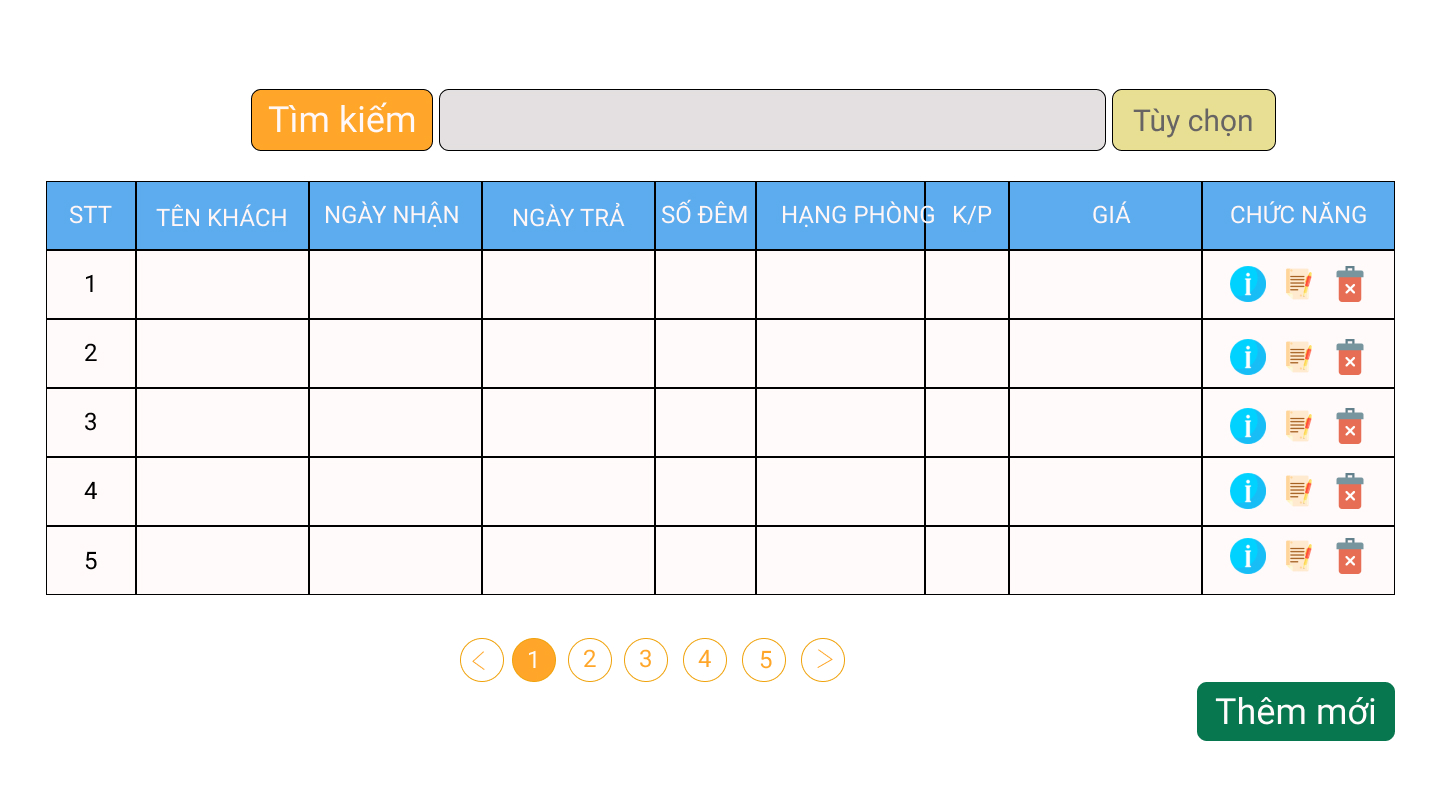
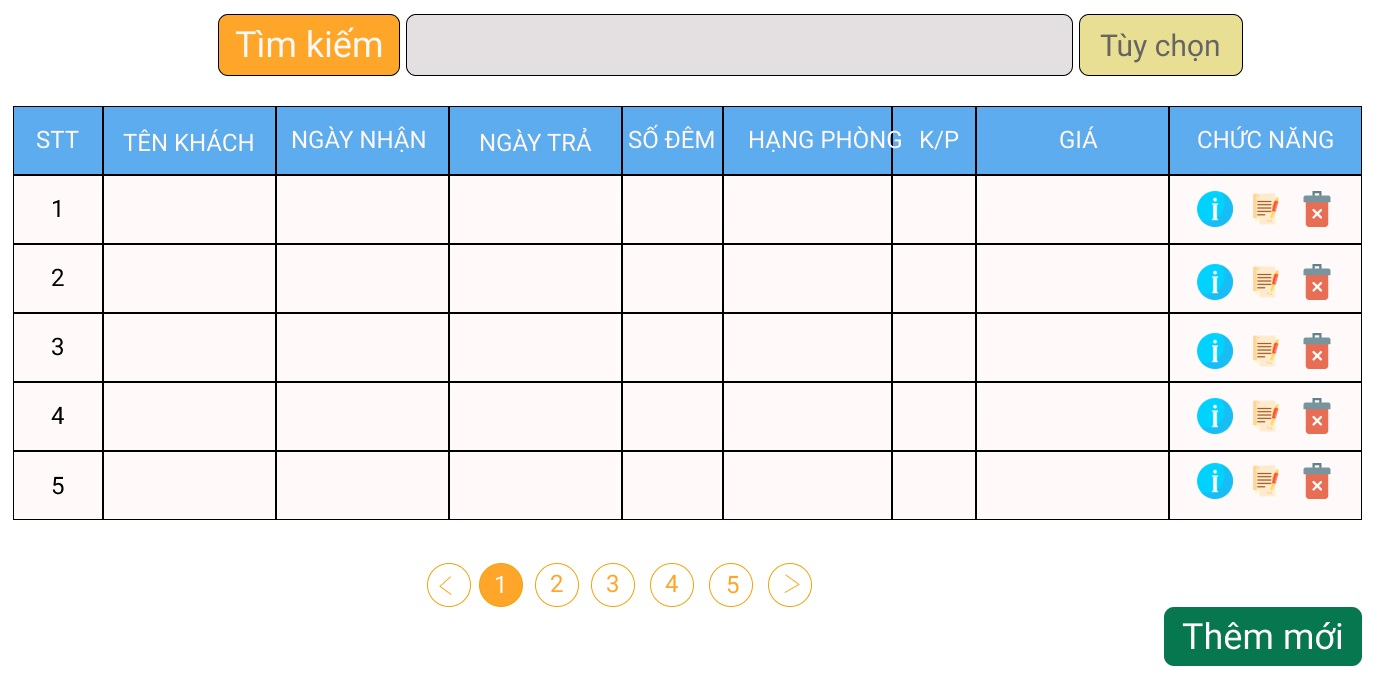
up date

diff --git a/baitap.html b/baitap.html
@@ -87,7 +87,7 @@
           <h1 style="color: aliceblue">Bài Tập</h1>
           <p class="breadcrumbs"><span class="mr-2"><a href="index.html">Home <i
                   class="ion-ios-arrow-forward"></i></a></span> <span>Labs <i
-                class="ion-ios-arrow-forward"></i></span><span ><a href="baitap.html"> Lab 1 <i
+                class="ion-ios-arrow-forward"></i></span><span><a href="baitap.html"> Lab 1 <i
                   class="ion-ios-arrow-forward"></i></a></span></p>
         </div>
       </div>
@@ -99,8 +99,8 @@
   <!--nơi viết nội dùng lab bài tập-->
   <section>
     <div class="container mt-3">
-      
-     
+
+
       <!-- Lab tabs -->
       <ul class="nav nav-tabs">
         <li class="nav-item">
@@ -110,7 +110,7 @@
           <a href="lab2.html" class="nav-link">Lab 2</a>
         </li>
         <li class="nav-item">
-          <a class="nav-link"  href="lab3.html" >Lab 3</a> 
+          <a class="nav-link" href="lab3.html">Lab 3</a>
         </li>
         <li class="nav-item">
           <a class="nav-link" data-toggle="tab" href="#lab4">Lab 4</a>
@@ -196,82 +196,119 @@
               <div class="panel panel-default">
                 <div class="panel-heading">
                   <h4 class="panel-title">
-                    <a data-toggle="collapse" data-parent="#accordion" href="#collapse0">Ảnh thiết kế trên giấy </a>
+                    <a data-toggle="collapse" data-parent="#accordion" href="#collapse0">Chức năng quản lí đặt phòng
+                    </a>
                   </h4>
                 </div>
                 <div>
-                  <P>
-                    <h3>Chức năng quản lí đặt phòng</h3>
-                  </P><br>
-                  <img title="quản lí phòng " src="./images/2.jpg"><br>
-                  <button style="float: left; margin-bottom: 20px; border-radius: 10px; background-color: teal">
 
-                    <a href="./images/2.jpg" download
-                      style="text-align:center; font-size: 24px; color: rgb(243, 240, 240)">
-                      <img src="./images/downl.png" width="24px" alt="Thêm dữ liệu" target="_blank"> Tải ảnh</a>
-                  </button><br><br>
+                  <div style="flex: 1;display: -webkit-flex; display: flex;">
+                    <div style="flex:3;"><img title="quản lí phòng " src="./images/2.jpg" width="700px" height="400"></div>
+
+                    <div style="flex: 1;margin-top: 200px;text-align: center;">
+                      <button
+                        style="float: left; margin-bottom: 20px; border-radius: 10px; background-color: #FFA629">
+                        <a href="./images/2.jpg" download
+                          style="text-align:center; font-size: 20px; color: rgb(243, 240, 240)">
+                          <img src="./images/downl.png" width="24px" alt="Thêm dữ liệu" target="_blank"> Tải ảnh</a>
+                      </button></div>
+
+                  </div>
+
                 </div>
-                <div>
-                  <p>
-                    <h3>Chức năng đặt phòng </h3>
-                  </p>
-                  <img tile="chức năng đặt phòng" src="./images/1.jpg"><br>
-                  <button style="float: left; margin-bottom: 20px; border-radius: 10px; background-color: teal">
-
-                    <a href="./images/1.jpg" download
-                      style="text-align:center; font-size: 24px; color: rgb(243, 240, 240)">
-                      <img src="./images/downl.png" width="24px" alt="Thêm dữ liệu" target="_blank"> Tải ảnh</a>
-                  </button><br><br>
+              </div>
+              <!-- pasdfdsf -->
+              <div class="panel panel-default">
+                <div class="panel-heading">
+                  <h4 class="panel-title">
+                    <a data-toggle="collapse" data-parent="#accordion" href="#collapse0">Chức năng đặt phòng
+                    </a>
+                  </h4>
                 </div>
+               
 
+                  <div style="flex: 1;display: -webkit-flex; display: flex;">
+                    <div style="flex:3;"><img tile="chức năng đặt phòng" src="./images/1.jpg" width="700px"height="400" ></div>
 
+                    <div style="flex: 1;margin-top: 200px;text-align: center;">
+                      <button style="float: left; margin-bottom: 20px; border-radius: 10px; background-color:  #FFA629">
+
+                        <a href="./images/1.jpg" download
+                          style="text-align:center; font-size: 20px; color: rgb(243, 240, 240)">
+                          <img src="./images/downl.png" width="24px" alt="Thêm dữ liệu" target="_blank"> Tải ảnh</a>
+                      </button></div>
+
+                  </div>
+              </div>
+              <!-- asdfsdfaf -->
+              <div class="panel panel-default">
+                <div class="panel-heading">
+                  <h4 class="panel-title">
+                    <a data-toggle="collapse" data-parent="#accordion" href="#collapse0">Chức năng quản lí đặt phòng figma
+                    </a>
+                  </h4>
+                </div>
+               
+
+                  <div style="flex: 1;display: -webkit-flex; display: flex;">
+                    <div style="flex:3;"><img title="quản lí phòng " src="./images/fig1.jpg" width="700px"><br></div>
+
+                    <div style="flex: 1;margin-top: 150px;text-align: center;">
+                     
+                      <button style="float: left; margin-bottom: 20px; border-radius: 10px; background-color:  #FFA629">
+
+                        <a href="./images/fig1.jpg" download
+                          style="text-align:center; font-size: 20px; color: rgb(243, 240, 240)">
+                          <img src="./images/downl.png" width="24px" alt="Thêm dữ liệu" target="_blank"> Tải ảnh</a>
+                      </button></div>
+
+                  </div>
               </div>
               <div class="panel panel-default">
                 <div class="panel-heading">
                   <h4 class="panel-title">
-                    <a data-toggle="collapse" data-parent="#accordion" href="#collapse0">Ảnh thiết kế trên figma </a>
+                    <a data-toggle="collapse" data-parent="#accordion" href="#collapse0">Chức năng đặt phòng figma
+                    </a>
                   </h4>
                 </div>
-                <div>
-                  <P>
-                    <h3>Chức năng quản lí đặt phòng</h3>
-                  </P><br>
-                  <img title="quản lí phòng " src="./images/fig1.jpg" width="700px"><br>
-                  <button style="float: left; margin-bottom: 20px; border-radius: 10px; background-color: teal">
+               
 
-                    <a href="./images/fig1.jpg" download
-                      style="text-align:center; font-size: 24px; color: rgb(243, 240, 240)">
-                      <img src="./images/downl.png" width="24px" alt="Thêm dữ liệu" target="_blank"> Tải ảnh</a>
-                  </button><br>
-                </div><br>
-                <hr>
-                <div>
-                  <p>
-                    <h3>Chức năng đặt phòng </h3>
-                  </p>
-                  <img tile="chức năng đặt phòng" src="./images/fig2.jpg" width="800px"><br>
-                  <hr>
-                  <button style="float: left; margin-bottom: 20px; border-radius: 10px; background-color: teal">
+                  <div style="flex: 1;display: -webkit-flex; display: flex;">
+                    <div style="flex:3;"><img tile="chức năng đặt phòng" src="./images/fig2.jpg" width="700px"></div>
 
-                    <a href="./images/fig2.jpg" download
-                      style="text-align:center; font-size: 24px; color: rgb(243, 240, 240)">
-                      <img src="./images/downl.png" width="24px" alt="Thêm dữ liệu" target="_blank"> Tải ảnh</a>
-                  </button><br><br>
-                </div>
-                <div>
-                  <p>
-                    <h3>Chức năng thay đổi thông tin </h3>
-                  </p>
-                  <img tile="chức năng đặt phòng" src="./17130237_design/phan sua.jpg" width="800px"><br>
-                  <hr>
-                  <button style="float: left; margin-bottom: 20px; border-radius: 10px; background-color: teal">
+                    <div style="flex: 1;margin-top: 200px;text-align: center;">
+                      <button style="float: left; margin-bottom: 20px; border-radius: 10px; background-color:  #FFA629">
 
-                    <a href="./17130237_design/phan sua.jpg" download
-                      style="text-align:center; font-size: 24px; color: rgb(243, 240, 240)">
-                      <img src="./images/downl.png" width="24px" alt="Thêm dữ liệu" target="_blank"> Tải ảnh</a>
-                  </button><br><br>
-                </div>
+                        <a href="./images/fig2.jpg" download
+                          style="text-align:center; font-size: 20px; color: rgb(243, 240, 240)">
+                          <img src="./images/downl.png" width="24px" alt="Thêm dữ liệu" target="_blank"> Tải ảnh</a>
+                      </button></div>
+
+                  </div>
               </div>
+              <div class="panel panel-default">
+                <div class="panel-heading">
+                  <h4 class="panel-title">
+                    <a data-toggle="collapse" data-parent="#accordion" href="#collapse0">Chức năng thay đổi thông tin figma
+                    </a>
+                  </h4>
+                </div>
+               
+
+                  <div style="flex: 1;display: -webkit-flex; display: flex;">
+                    <div style="flex:3;"><img tile="chức năng đặt phòng" src="./17130237_design/phan sua.jpg" width="700px"></div>
+
+                    <div style="flex: 1;margin-top: 200px;text-align: center;">
+                      <button style="float: left; margin-bottom: 20px; border-radius: 10px; background-color:  #FFA629">
+
+                        <a href="./17130237_design/phan sua.jpg" download
+                          style="text-align:center; font-size: 20px; color: rgb(243, 240, 240)">
+                          <img src="./images/downl.png" width="24px" alt="Thêm dữ liệu" target="_blank"> Tải ảnh</a>
+                      </button></div>
+
+                  </div>
+              </div>
+              
               <div class="panel panel-default">
                 <div class="panel-heading">
                   <h4 class="panel-title">
@@ -281,10 +318,10 @@
 
                 <h2>Tải tất cả các ảnh về bao gồm cả file .fig</h2><span>
                   <button
-                    style="float: left; align-self: center;margin-bottom: 20px; border-radius: 10px; background-color: teal">
+                    style="float: left; align-self: center;margin-bottom: 20px; border-radius: 10px; background-color:  #FFA629">
 
                     <a href="./17130237_design/17130237_design.rar"
-                      style="text-align:center; font-size: 24px; color: rgb(243, 240, 240)">
+                      style="text-align:center; font-size: 20px; color: rgb(243, 240, 240)">
                       <img src="./images/downl.png" width="24px" alt="Thêm dữ liệu" target="_blank"> Tải tệp</a>
                   </button><br><br>
                 </span>
@@ -547,7 +584,7 @@
                   </div>
                   <button style="float: right; margin-bottom: 20px; border-radius: 10px; background-color: teal">
 
-                    <a href="#" style="text-align:center; font-size: 24px; color: rgb(243, 240, 240)">
+                    <a href="#" style="text-align:center; font-size: 23px; color: rgb(243, 240, 240)">
                       <img src="./images/new.png" width="24px" alt="Thêm dữ liệu" target="_blank"> Thêm mới</a>
                   </button><br><br>
                 </section>
@@ -837,10 +874,10 @@
             <a class="nav-link" data-toggle="tab" href="#implement2">Implement</a>
           </li>
         </ul>
-        
+
       </div>
       <!--nội dug lab 3-->
-      <div id="lab3" class="container tab-pane fade" ><br>
+      <div id="lab3" class="container tab-pane fade"><br>
         <ul class="nav nav-tabs">
           <li class="nav-item">
             <a class="nav-link active" data-toggle="tab" href="#requiment3">Requiment</a>
@@ -853,19 +890,19 @@
           </li>
         </ul>
         <div class="tab-content">
-            <div id="requiment3" class="container tab-pane active"><br>
+          <div id="requiment3" class="container tab-pane active"><br>
 
-              <p>đây là phần requiment của lab 1</p>
-            </div>
-            <div id="design3" class="container tab-pane fade"><br>
-
-              <p>đây là design trong lab 1</p>
-            </div>
-            <div id="implement3" class="container tab-pane fade"><br>
-
-              <p>đây là phần implement của lab 1</p>
-            </div>
+            <p>đây là phần requiment của lab 1</p>
           </div>
+          <div id="design3" class="container tab-pane fade"><br>
+
+            <p>đây là design trong lab 1</p>
+          </div>
+          <div id="implement3" class="container tab-pane fade"><br>
+
+            <p>đây là phần implement của lab 1</p>
+          </div>
+        </div>
       </div>
       <div id="lab4" class="container tab-pane fade"><br>
         <ul class="nav nav-tabs">
@@ -900,7 +937,7 @@
 
     </div>
   </section>
-</ul>
+  </ul>
 
   <!-- nơi kết thúc nội dung lab bài tập-->
   <footer class="ftco-footer ftco-bg-dark ftco-section">

diff --git a/ex2.html b/ex2.html
@@ -88,10 +88,10 @@
         <div class="container">
             <div class="row no-gutters slider-text align-items-end justify-content-center">
                 <div class="col-md-9 ftco-animate text-center">
-                    <h1 style="color: aliceblue">Exercise 1</h1>
+                    <h1 style="color: aliceblue">Exercise 2</h1>
                     <p class="breadcrumbs"><span class="mr-2"><a href="index.html">Home <i
                                     class="ion-ios-arrow-forward"></i></a></span> <span>Lab 3 <i
-                                class="ion-ios-arrow-forward"></i></span> <span>Exercise 1 <i
+                                class="ion-ios-arrow-forward"></i></span> <span>Exercise 2 <i
                                 class="ion-ios-arrow-forward"></i></span></p>
                 </div>
             </div>
@@ -115,7 +115,7 @@
             </div>
         </div>
     </section>
-    <hr width="30%" size="5px" align="center" color="red" />
+    <hr width="30%" size="5px" align="center" color="#00CCFF" />
 
     <div class="row justify-content-center">
         <div class="col-sm-10 wrap-about ftco-animate text-center">

diff --git a/lab3.html b/lab3.html
@@ -115,7 +115,7 @@
 			</div>
 		</div>
 	</section>
-	<hr width="30%" size="5px" align="center" color="red" />
+	<hr width="30%" size="5px" align="center" color="#00CCFF" />
 
 	<div class="row justify-content-center">
 		<div class="col-sm-10 wrap-about ftco-animate text-center">
